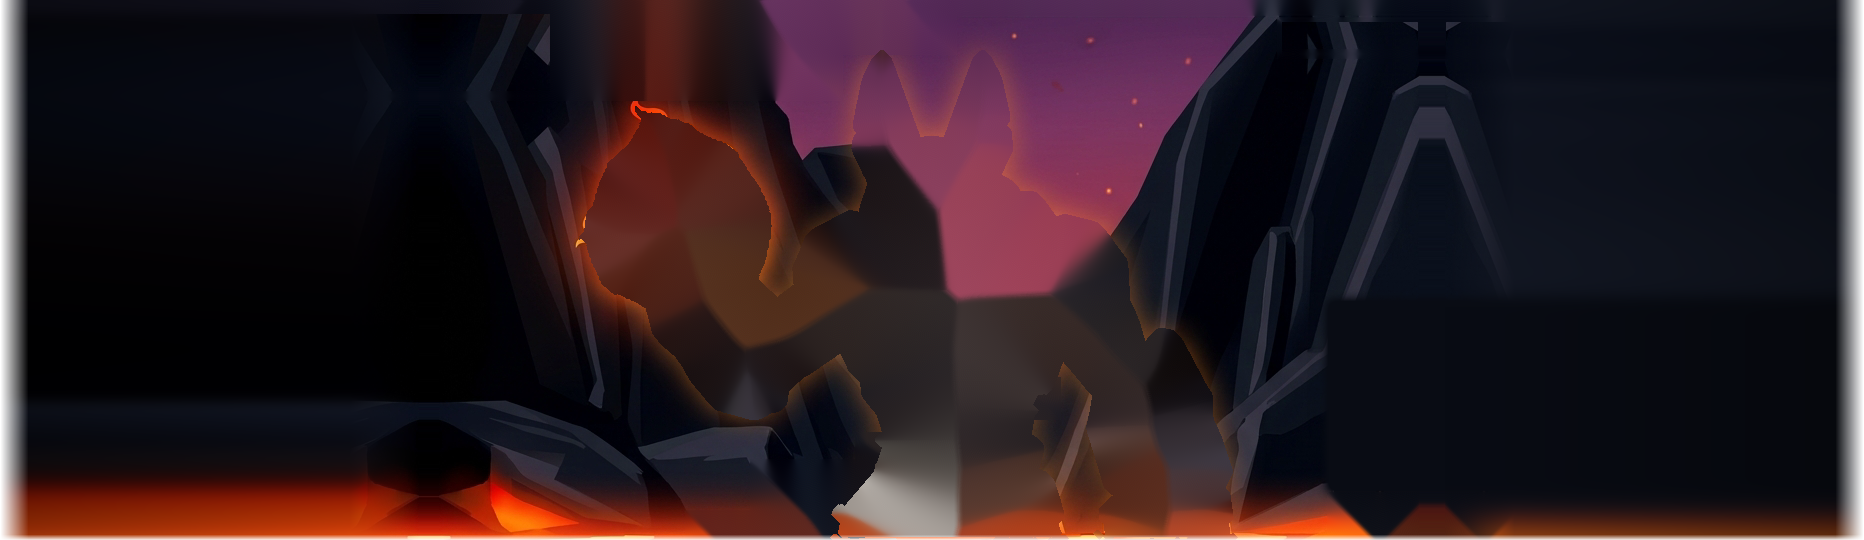
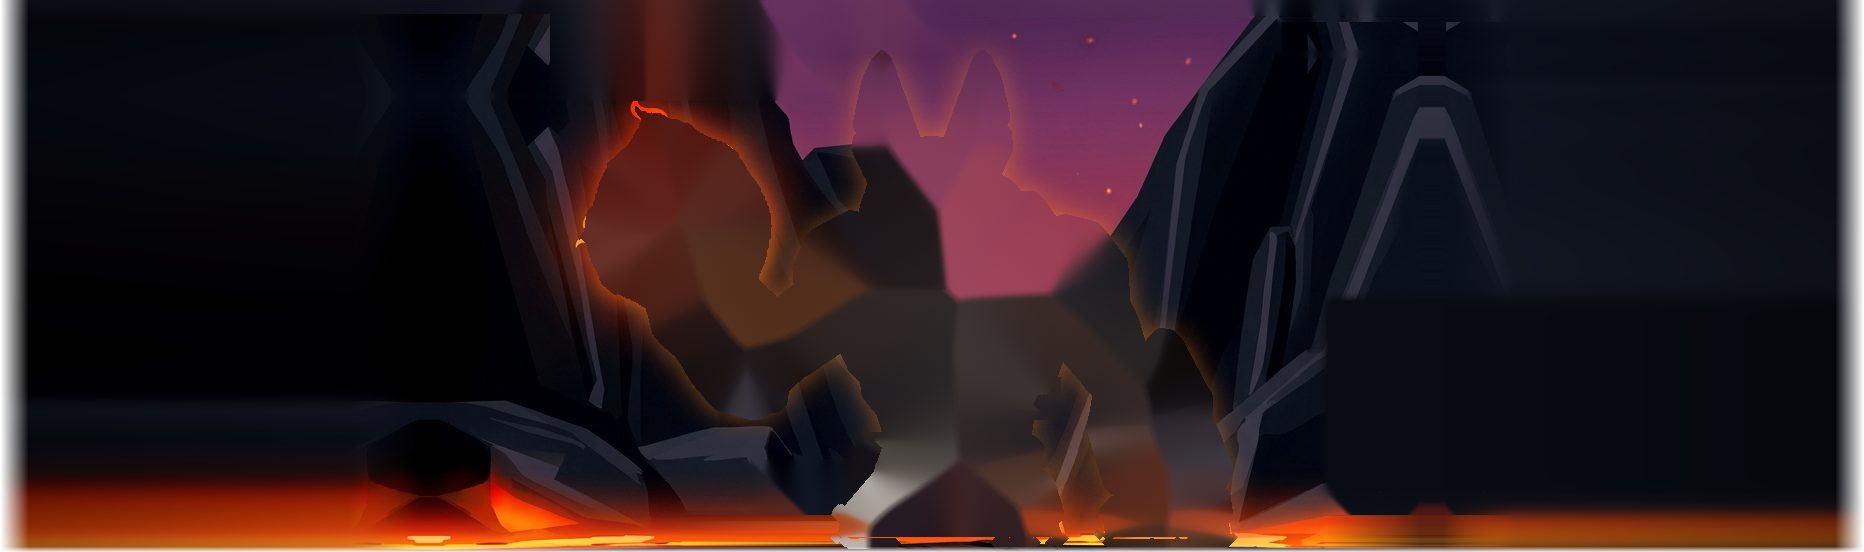
builder: TARGET's whole lava band in the backdrop, unbroken behind the slab
Claude-Session: https://claude.ai/code/session_012yy1YjbpvUxnwcpt4xtUdn

diff --git a/tools/backdrop_cut.py b/tools/backdrop_cut.py
@@ -31,7 +31,9 @@ ROOT = Path(__file__).resolve().parent.parent
 OUT = ROOT / "game/assets/3d/cast/cinder_jackal_backdrop.png"
 
 CUT = rig.CUT          # TARGET's lava line
-FADE = 6               # rows past the lava line, fading out
+FADE = 18              # rows past the cut: TARGET's bright lava band runs to ~546 (2026-10-09)
+LAVA_ROWS = (515, None)   # TARGET rows of the lava band and its glow
+FADE_LEN = 6           # the last rows, fading out
 SIDE_FEATHER = 28      # TARGET px at the left and right edges
 PAD = 420              # TARGET px mirrored on past each side of the square
 EDGE_SRC = 90          # TARGET px of each edge whose row tone the pad carries on
@@ -106,6 +108,21 @@ def build():
     out = img.astype(float)
     out[other] = fill_other[other]
     out[fig] = fill_fig[fig]
+    # TARGET's lava line is a horizontal band: where a stone hid it, each row
+    # is carried across the hole from its clean ends, so the yellow line runs
+    # on unbroken behind the fight's slab (grader 2026-10-09: "a dark blot and
+    # an orange smear" from the inpaint there).
+    for y in range(LAVA_ROWS[0], rows):
+        hole = other[y] & ~fig[y]
+        if not hole.any():
+            continue
+        good = ~(other[y] | fig[y])
+        xs_good = np.nonzero(good)[0]
+        if len(xs_good) < 2:
+            continue
+        xs_hole = np.nonzero(hole)[0]
+        for c in range(3):
+            out[y, xs_hole, c] = np.interp(xs_hole, xs_good, img[y, xs_good, c].astype(float))
     # The HUD and the frame: TARGET's cliffs there are vertical slabs and its
     # sky is smooth, so mirror the clean picture in from the side the rect
     # opens on (an inpaint smeared them into a blurred band, grader
@@ -158,7 +175,7 @@ def build():
     side = np.clip(np.minimum(xs, W - 1 - xs) / SIDE_FEATHER, 0, 1)
     a *= side[None, :]
     ys = np.arange(H)
-    bottom = np.clip((rows - ys) / FADE, 0, 1)
+    bottom = np.clip((rows - ys) / FADE_LEN, 0, 1)
     a *= bottom[:, None]
     rgba = np.dstack([np.clip(out, 0, 255), a * 255]).astype(np.uint8)
     Image.fromarray(rgba, "RGBA").save(OUT)

diff --git a/design/plan/BUILDER-QUEUE-NOTES.md b/design/plan/BUILDER-QUEUE-NOTES.md
@@ -2244,3 +2244,13 @@ Found by measuring, not by eye: the jackal is TARGET's own pixels, so every crac
 - Grader: R1 PASS (centre 316.5 vs 317.5 of 640; width 439 vs 449). Minor: cards shorter than TARGET's and lean less; checked on the 2x crop and not queued: "Deal 1 damage" sits at y 664/666 in both, TARGET's card bottoms end under its own dark picture border at y ~710 (the game's at 705), and the outer card's edge leans ~6 degrees in TARGET, ~7 in the game.
 - Frames: ![[agents/frames/builder/2026-10-09-handfit-before.png|420]] ![[agents/frames/builder/2026-10-09-handfit-after.png|420]]
 - Meshy: 0 credits.
+
+## Lava line: TARGET's bright yellow band across the whole square.
+
+2026-10-09 02:20 EDT, builder (run 8). PASSED. Found this run: left of the jackal the square showed a dim red strip where TARGET has its bright yellow lava line.
+
+- The backdrop (TARGET's own pixels) stopped at TARGET row 540, the middle of the band (rows ~535-546). tools/backdrop_cut.py `FADE` 6 -> 18 with a 6-row fade, `BACKDROP_ROWS` 552: the whole band is TARGET's.
+- Where TARGET's lowest slab hid the band the inpaint left a dark blot and an orange smear beside the fight's slab; rows from 515 down are now carried across each stone hole from the row's clean ends (`LAVA_ROWS`).
+- Grader: R1 FAIL (blot and smear by the bottom stone), R2 PASS. VERDICT: PASS.
+- Frames: ![[agents/frames/builder/2026-10-09-lavaband-before.png|420]] ![[agents/frames/builder/2026-10-09-lavaband-after.png|420]]
+- Meshy: 0 credits.

diff --git a/design/plan/BUILDER-QUEUE.md b/design/plan/BUILDER-QUEUE.md
@@ -136,6 +136,12 @@ run failed.
       Test: state=3d beast=cinder_jackal
       ![[agents/frames/builder/2026-10-09-cracks7-after.png|420]] ^stray-yellow-speck-on-the-jackal-s-chest
 
+- [ ] 👀 **Lava line: TARGET's bright yellow band across the whole square.**
+      ▶ [Test this now](obsidian://shell-commands/?vault=design&execute=fight-uri-beast&_beast=cinder_jackal) · [[BUILDER-QUEUE-NOTES#Lava line: TARGET's bright yellow band across the whole square.|details]]
+      Ask: nothing
+      Test: state=3d beast=cinder_jackal
+      ![[agents/frames/builder/2026-10-09-lavaband-after.png|420]] ^lava-line-target-s-bright-yellow-band-acr
+
 ## Waiting on Nick
 
 The builder skips this section. Answer here or in Home; the item then moves
